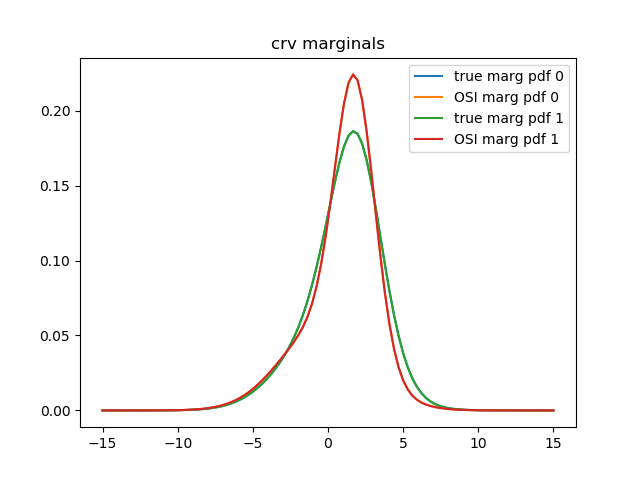
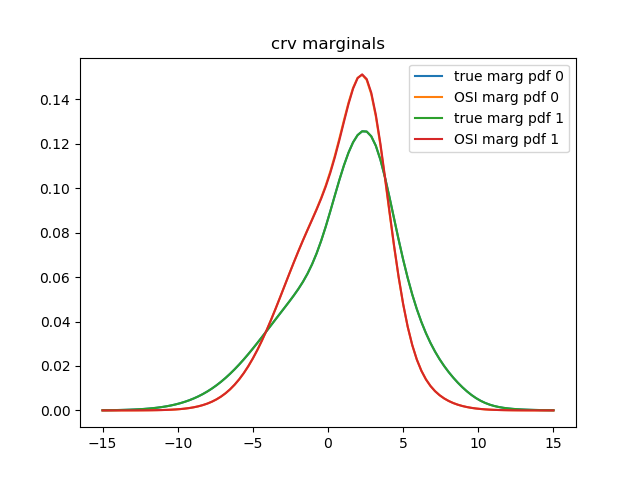
make serious hybrid mln exp more challenging, rerun
EPBP avg time 0.21343460199999953
OSI avg time 4.371043182999999
EPBP diff 0.0002950075320882206
EPBP std 9.04332844608988e-06
OSI diff 0.15610632828929716
OSI std 0.01193608096695808

diff --git a/osi/serious_hybrid_mln_experiment.py b/osi/serious_hybrid_mln_experiment.py
@@ -44,12 +44,12 @@ atom_C2 = Atom(domain_bool, logical_variables=(lv_y, lv_s2), name='C')
 atom_D = Atom(domain_bool, logical_variables=(lv_x, lv_y), name='D')
 
 f1 = ParamF(  # disc
-    MLNPotential(lambda x: imp_op(x[0] * x[1], x[2]), w=0.2),
+    MLNPotential(lambda x: imp_op(x[0] * x[1], x[2]), w=0.1),
     nb=(atom_D, atom_C, atom_C2),
     constrain=lambda sub: (sub[lv_s] == 'T1' and sub[lv_s2] == 'T1') or (sub[lv_s] == 'T1' and sub[lv_s2] == 'T2')
 )
 
-w_h = 0.15
+w_h = 0.2  # the stronger the more multi-modal things tend to be
 f2 = ParamF(  # hybrid
     MLNPotential(lambda x: x[0] * eq_op(x[1], x[2]), w=w_h),
     nb=(atom_C, atom_A, atom_B)
@@ -60,7 +60,7 @@ equiv_hybrid_pot = HybridQuadraticPotential(
     c=w_h * np.array([0., 0.])
 )  # equals 0 if x[0]==0, equals -(x[1]-x[1])^2 if x[0]==1
 
-prior_strength = 0.02
+prior_strength = 0.01
 f3 = ParamF(  # cont
     QuadraticPotential(A=-prior_strength * (np.eye(2)), b=np.array([0., 0.]), c=0.),
     nb=[atom_A, atom_B]
@@ -102,7 +102,7 @@ for test_num in range(num_tests):
     #         data[('E', y_, f's{s_}')] = np.random.choice([0, 1])
     #
 
-    B_vals = np.random.normal(loc=0, scale=3, size=len(S))  # special treatment for the story
+    B_vals = np.random.normal(loc=0, scale=5, size=len(S))  # special treatment for the story
     for i, s in enumerate(S):
         data[('B', s)] = B_vals[i]
 
